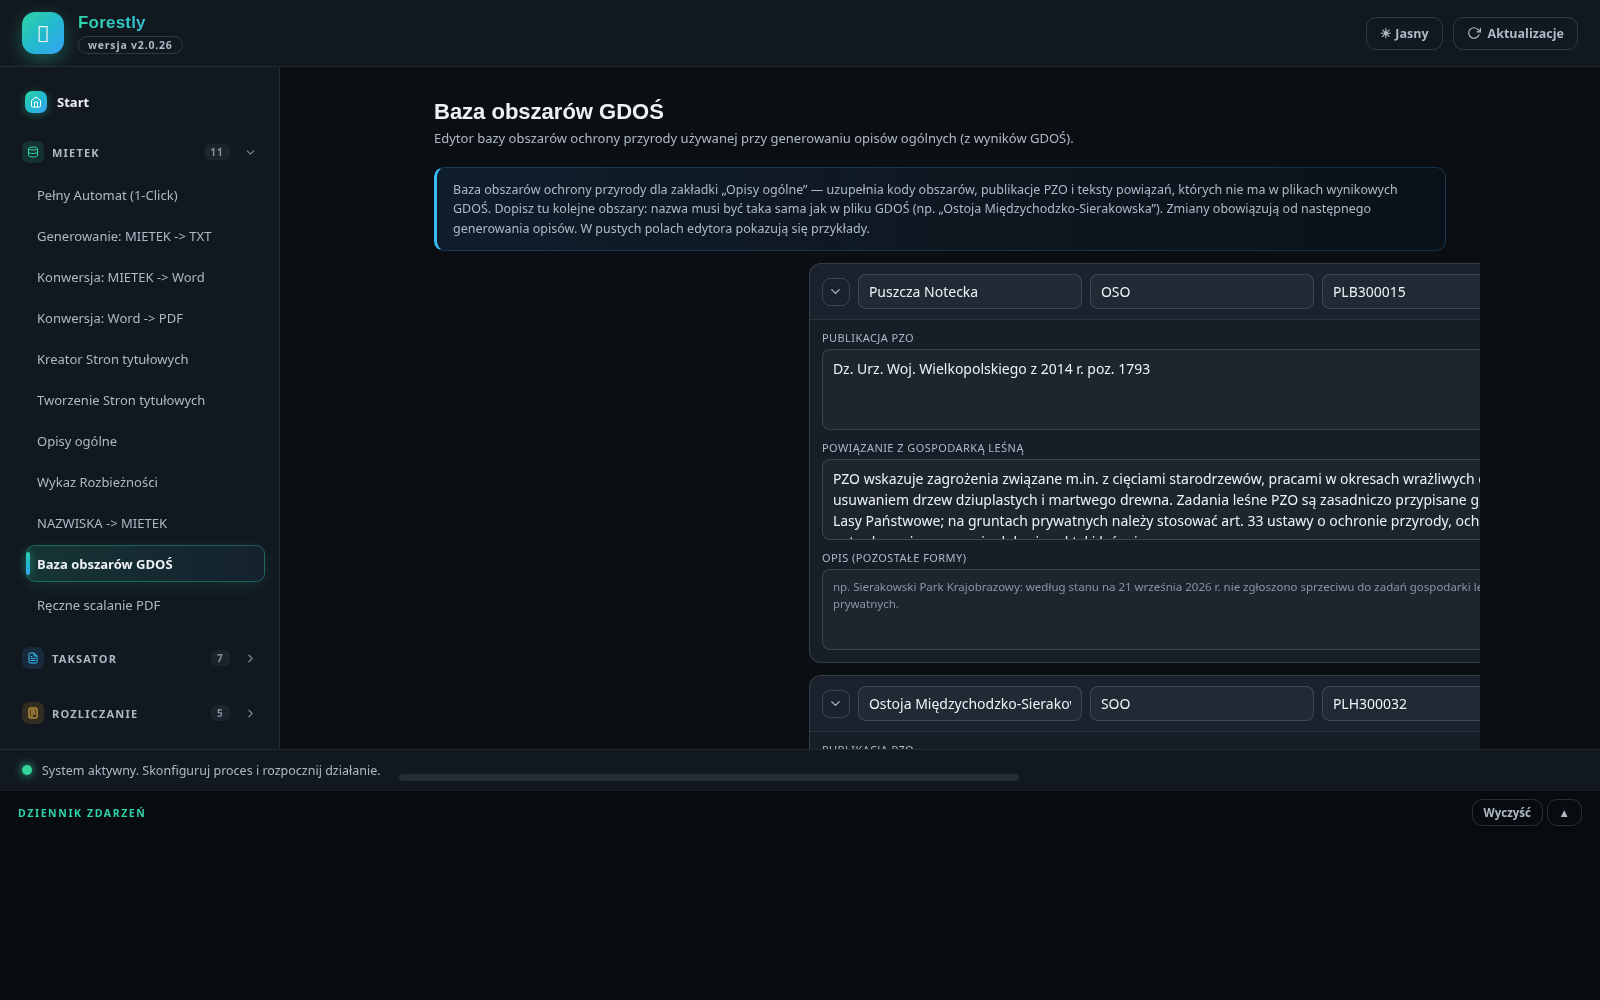
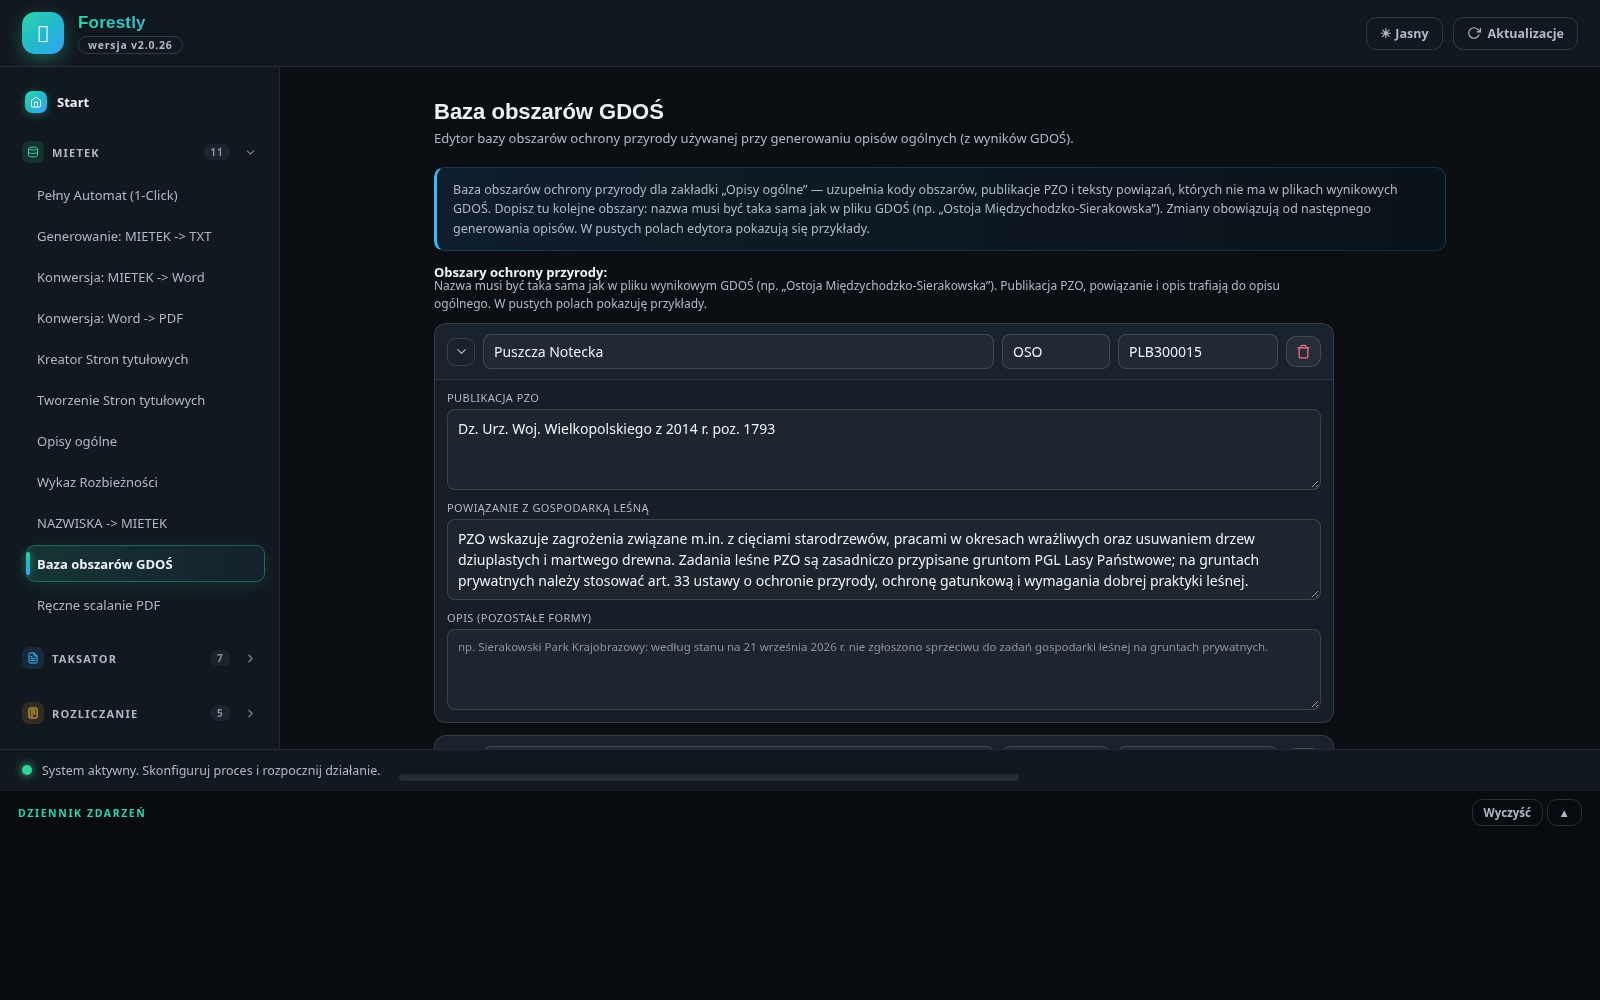
gdoś tabela

Changed region(s): [[0.25, 0.248, 0.9375, 0.775]]

diff --git a/webapp/style.css b/webapp/style.css
@@ -675,7 +675,14 @@ button.order-toggle.off:hover {
 #task-timer.hidden { display: none; }
 
 /* edytor bazy obszarów GDOŚ — karty zamiast tabeli */
-.gdos-field { width: 100%; }
+.gdos-field {
+  width: 100%; max-width: 900px;
+  /* nadpisuje poziomy układ .field: etykieta, podpowiedź i karty jedno pod drugim */
+  display: flex; flex-direction: column; align-items: stretch; gap: 0;
+}
+/* flex-basis 260px z .field > label w pionowym układzie robiloby z etykiety
+   pudlo o wysokosci 260px — przywracam naturalna wysokosc linii */
+.gdos-field > label { flex: 0 0 auto; }
 .gdos-hint { font-size: 12px; color: var(--text-dim); margin: -4px 0 10px 0; line-height: 1.5; }
 .gdos-wrap { width: 100%; display: flex; flex-direction: column; gap: 12px; }
 
@@ -717,6 +724,12 @@ button.order-toggle.off:hover {
 .gdos-nazwa { flex: 1 1 auto; min-width: 180px; font-weight: 600; }
 .gdos-typ   { flex: 0 1 100px; min-width: 76px; }
 .gdos-kod   { flex: 0 1 140px; min-width: 104px; }
+
+/* proporcje pól w nagłówku karty: nazwa dostaje resztę szerokości,
+   typ i kod mają stałe, wąskie sloty (nadpisuje szerokości powyżej) */
+.gdos-item-head input.gdos-nazwa { flex: 1 1 260px; }
+.gdos-item-head input.gdos-typ   { flex: 0 1 108px; }
+.gdos-item-head input.gdos-kod   { flex: 0 1 160px; }
 
 .gdos-item-head .gdos-del { padding: 7px 9px; }
 .gdos-item-head .gdos-del .bi { stroke: var(--red); }

diff --git a/webapp/app.js b/webapp/app.js
@@ -535,7 +535,10 @@ function renderGdosTable(wrap, rows) {
   };
 
   rows.forEach((row, i) => {
-    const item = el("div", "gdos-item");
+    /* karty domyślnie zwinięte — rozwinięta tylko nowa (pusta nazwa),
+       żeby od razu dało się ją wypełnić */
+    const nowy = !String(row.nazwa || "").trim();
+    const item = el("div", "gdos-item" + (nowy ? "" : " collapsed"));
 
     /* --- nagłówek karty: zwijanie, nazwa, typ, kod, usuń --- */
     const head = el("div", "gdos-item-head");
@@ -602,6 +605,8 @@ function renderGdosTable(wrap, rows) {
   add.onclick = () => {
     rows.push({ nazwa: "", typ: "", kod: "", pzo: "", powiazanie: "", opis: "" });
     renderGdosTable(wrap, rows);
+    const karty = wrap.querySelectorAll(".gdos-item");
+    if (karty.length) karty[karty.length - 1].querySelector(".gdos-nazwa").focus();
   };
   const save = el("button", "btn primary");
   save.innerHTML = ICON("save") + "<span>Zapisz bazę</span>";

diff --git a/app/config.py b/app/config.py
@@ -18,7 +18,7 @@ from pathlib import Path
 import customtkinter as ctk
 
 # --- WERSJA I AKTUALIZACJA ---
-CURRENT_VERSION = "v2.0.30"
+CURRENT_VERSION = "v2.0.31"
 GITHUB_USER = "wskakuj"
 GITHUB_REPO = "FORESTLY"
 

diff --git a/RELEASE_NOTES.md b/RELEASE_NOTES.md
@@ -1,3 +1,3 @@
-# Co nowego w v2.0.30
-- readme fix
+# Co nowego w v2.0.31
+- - poprawiona tabela w gdoś
 
